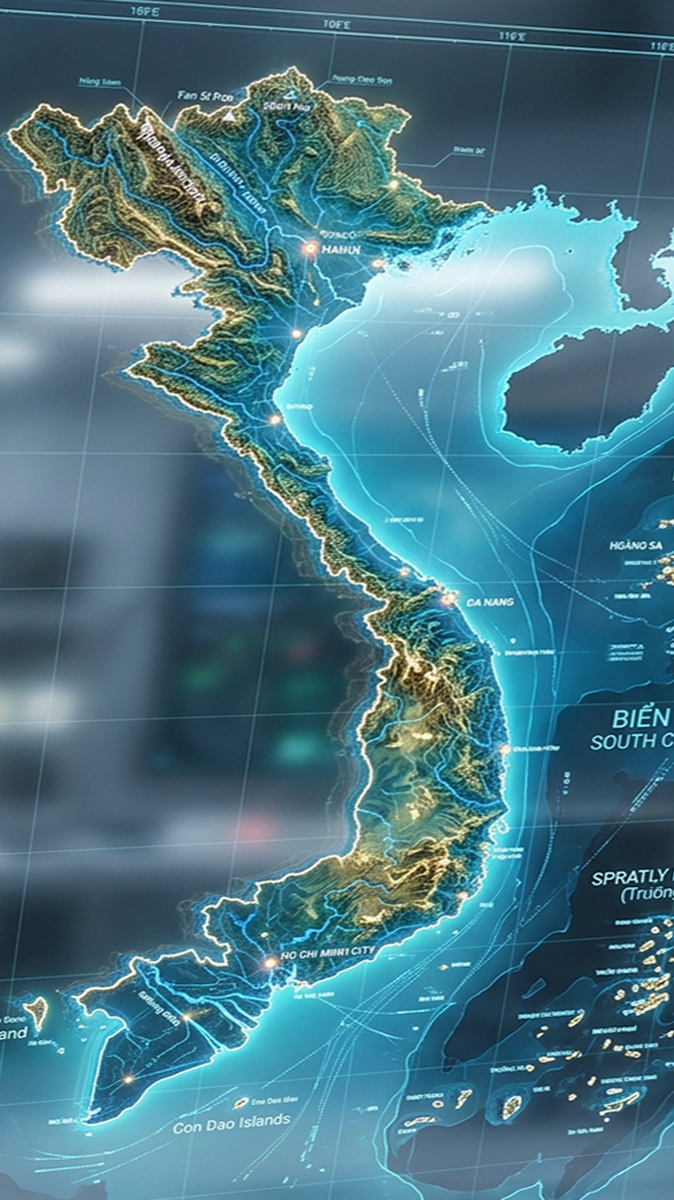
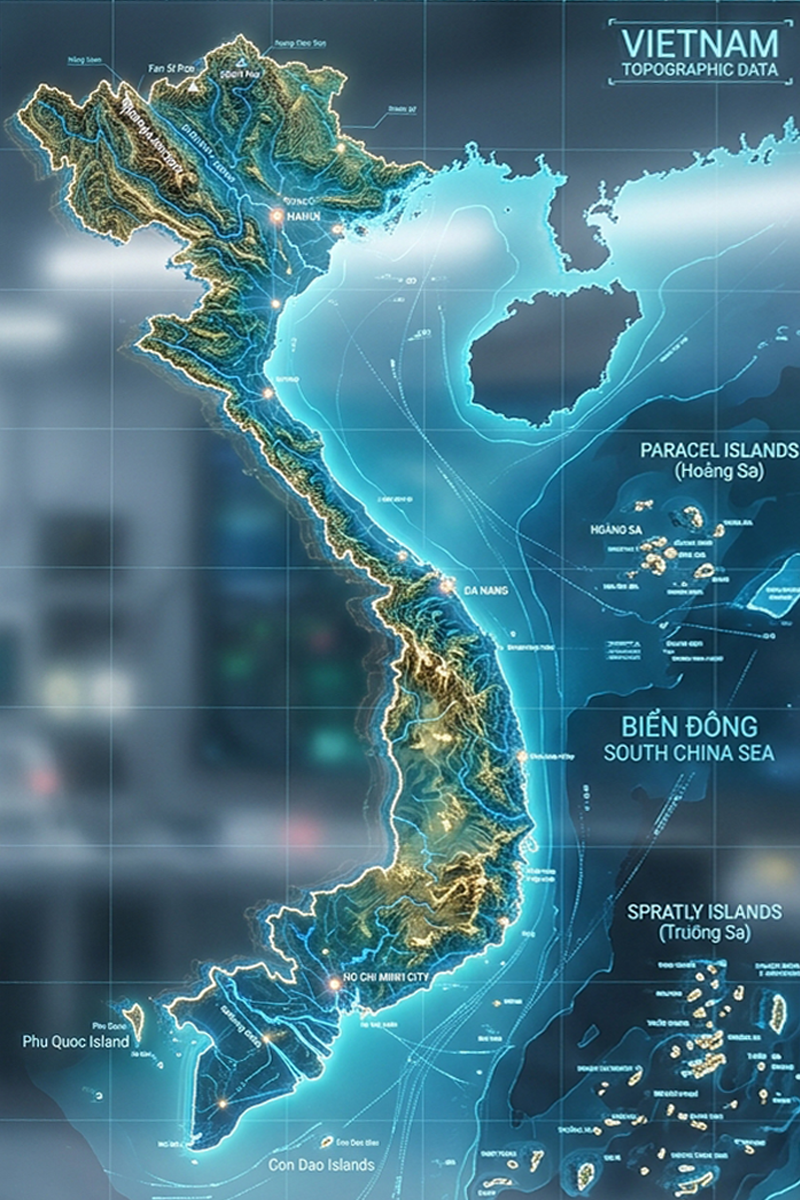
chore(assets): update 3D map and location coordinates
Add new 3D Vietnam map asset and adjust coordinate positioning for Sapa, Ha Giang, and Hanoi locations to align with the updated asset.

diff --git a/src/components/CategoryPage.tsx b/src/components/CategoryPage.tsx
@@ -30,8 +30,8 @@ const TRAVEL_LOCATIONS: TravelLocation[] = [
     tempMin: 14,
     tempMax: 22,
     currentStatus: "cloudy",
-    top: "10.4%",
-    left: "26.8%",
+    top: "8.24%",
+    left: "18.4%",
     forecast: [
       { day: "Thứ Hai", status: "cloudy", summary: "Sương mù dày đặc vào sáng sớm, trời lạnh sâu về đêm, thích hợp thưởng thức đồ nướng Bản Phố." },
       { day: "Thứ Ba", status: "sunny", summary: "Trời hửng nắng nhẹ trưa chiều, mây bồng bềnh phủ đỉnh Fansipan, cảnh sắc mộng mơ." },
@@ -49,8 +49,8 @@ const TRAVEL_LOCATIONS: TravelLocation[] = [
     tempMin: 16,
     tempMax: 24,
     currentStatus: "windy",
-    top: "7.6%",
-    left: "40%",
+    top: "4.4%",
+    left: "29.64%",
     forecast: [
       { day: "Thứ Hai", status: "windy", summary: "Gió núi lồng lộng thổi qua đèo Mã Pí Lèng, trời se lạnh và khô ráo." },
       { day: "Thứ Ba", status: "sunny", summary: "Trời quang mây tạnh, thung lũng Sủng Là rực rỡ sắc hoa tam giác mạch dưới nắng." },
@@ -68,8 +68,8 @@ const TRAVEL_LOCATIONS: TravelLocation[] = [
     tempMin: 26,
     tempMax: 34,
     currentStatus: "sunny",
-    top: "19.6%",
-    left: "44.16%",
+    top: "16.64%",
+    left: "32.96%",
     forecast: [
       { day: "Thứ Hai", status: "sunny", summary: "Trời nắng rực rỡ, gió thu thoang thoảng dịu mát quanh hồ Hoàn Kiếm." },
       { day: "Thứ Ba", status: "stormy", summary: "Ngày nắng nóng nhẹ, chiều tối có khả năng xuất hiện mưa giông giải nhiệt nhanh." },
@@ -87,8 +87,8 @@ const TRAVEL_LOCATIONS: TravelLocation[] = [
     tempMin: 25,
     tempMax: 32,
     currentStatus: "sunny",
-    top: "17.6%",
-    left: "68.6%",
+    top: "14.88%",
+    left: "49.0%",
     forecast: [
       { day: "Thứ Hai", status: "sunny", summary: "Trời trong xanh, sóng êm, vịnh Hạ Long lung linh dưới ánh nắng vàng rực rỡ." },
       { day: "Thứ Ba", status: "sunny", summary: "Nắng đẹp cả ngày, gió biển mát rượi thích hợp cho các hoạt động du thuyền và chèo kayak." },
@@ -100,14 +100,33 @@ const TRAVEL_LOCATIONS: TravelLocation[] = [
     ]
   },
   {
+    id: "thanhhoa",
+    name: "Thanh Hóa",
+    fullName: "Thanh Hóa",
+    tempMin: 25,
+    tempMax: 33,
+    currentStatus: "sunny",
+    top: "25.3%",
+    left: "33.9%",
+    forecast: [
+      { day: "Thứ Hai", status: "sunny", summary: "Trời nắng ráo, lộng gió thích hợp tắm biển Sầm Sơn, tận hưởng hải sản tươi ngon." },
+      { day: "Thứ Ba", status: "sunny", summary: "Nắng nhẹ, gió biển ôn hòa thích hợp ghé thăm Thành nhà Hồ cổ kính và uy nghiêm." },
+      { day: "Thứ Tư", status: "cloudy", summary: "Mây nhẹ rải rác che bớt nắng nóng, thời tiết lý tưởng để dạo quanh khu bảo tồn Pù Luông." },
+      { day: "Thứ Năm", status: "sunny", summary: "Thời tiết trong lành ấm áp, thích hợp dã ngoại khám phá suối cá thần Cẩm Lương kỳ thú." },
+      { day: "Thứ Sáu", status: "rainy", summary: "Cơn mưa rào bất chợt mát mẻ giữa ngày, tạnh nhanh và không khí trở nên sảng khoái cực kỳ." },
+      { day: "Thứ Bảy", status: "sunny", summary: "Ngày cuối tuần đầy nắng vàng tươi tắn dạo chơi khu du lịch Hải Tiến trong lành." },
+      { day: "Chủ Nhật", status: "sunny", summary: "Thời tiết hoàn hảo đầy nắng ấm, thuận lợi cho mọi hoạt động khám phá văn hóa xứ Thanh." }
+    ]
+  },
+  {
     id: "hatinh",
     name: "Hà Tĩnh",
     fullName: "Hà Tĩnh",
     tempMin: 24,
     tempMax: 32,
     currentStatus: "sunny",
-    top: "33.2%",
-    left: "39.6%",
+    top: "32.4%",
+    left: "32.6%",
     forecast: [
       { day: "Thứ Hai", status: "sunny", summary: "Nắng nhẹ, không khí trong lành tại bãi biển Thiên Cầm, sóng êm gió mát dễ chịu." },
       { day: "Thứ Ba", status: "sunny", summary: "Thời tiết khô ráo, ngày nắng ráo rất thuận lợi cho việc viếng Ngã ba Đồng Lộc." },
@@ -125,8 +144,8 @@ const TRAVEL_LOCATIONS: TravelLocation[] = [
     tempMin: 24,
     tempMax: 31,
     currentStatus: "rainy",
-    top: "46.4%",
-    left: "57.6%",
+    top: "44.8%",
+    left: "50.6%",
     forecast: [
       { day: "Thứ Hai", status: "rainy", summary: "Mưa bay lãng đãng trên dòng sông Hương, tạo nên vẻ trầm mặc cổ kính của cố đô." },
       { day: "Thứ Ba", status: "rainy", summary: "Mưa rào rải rác ngắt quãng, trời mát mẻ, chiều tối có sương mờ mờ ảo ảo." },
@@ -144,8 +163,8 @@ const TRAVEL_LOCATIONS: TravelLocation[] = [
     tempMin: 25,
     tempMax: 33,
     currentStatus: "sunny",
-    top: "49.2%",
-    left: "66.9%",
+    top: "48.51%",
+    left: "54.86%",
     forecast: [
       { day: "Thứ Hai", status: "sunny", summary: "Nắng đẹp rực rỡ trên bãi biển Mỹ Khê, sóng vỗ nhẹ nhàng thích hợp tắm biển." },
       { day: "Thứ Ba", status: "sunny", summary: "Trời trong xanh, tầm nhìn tuyệt vời từ đỉnh bán đảo Sơn Trà và chùa Linh Ứng." },
@@ -157,6 +176,25 @@ const TRAVEL_LOCATIONS: TravelLocation[] = [
     ]
   },
   {
+    id: "quinhon",
+    name: "Qui Nhơn",
+    fullName: "Qui Nhơn (Bình Định)",
+    tempMin: 25,
+    tempMax: 32,
+    currentStatus: "sunny",
+    top: "62.67%",
+    left: "63.01%",
+    forecast: [
+      { day: "Thứ Hai", status: "sunny", summary: "Nắng ấm chan hòa, bãi biển vầng trăng khuyết Ghềnh Ráng Quy Hòa sóng vỗ hiền hòa." },
+      { day: "Thứ Ba", status: "sunny", summary: "Trời quang mây tạnh, gió biển mát rượi vô cùng thuận lợi đi cano ra đảo Kỳ Co." },
+      { day: "Thứ Tư", status: "sunny", summary: "Nắng rực rỡ từ sớm, biển trong vắt như gương soi rõ rặng san hô hòn Khô rực rỡ." },
+      { day: "Thứ Năm", status: "cloudy", summary: "Mây mỏng che bớt nắng gắt trưa chiều, thời tiết mát mẻ thích hợp dạo Eo Gió lộng gió." },
+      { day: "Thứ Sáu", status: "sunny", summary: "Ngày nắng ráo mát mẻ, thích hợp viếng thăm Tháp Đôi kiến trúc Chăm cổ kính độc đáo." },
+      { day: "Thứ Bảy", status: "rainy", summary: "Có mưa rào nhẹ rải rác chớp nhoáng xế chiều, tối mát mẻ lộng gió thích hợp đi dạo." },
+      { day: "Chủ Nhật", status: "sunny", summary: "Thời tiết lý tưởng cho chuyến dã ngoại, nắng vàng lấp lánh cát trắng bãi tắm Hoàng Hậu." }
+    ]
+  },
+  {
     id: "nhatrang",
     name: "Nha Trang",
     fullName: "Nha Trang",
@@ -164,7 +202,7 @@ const TRAVEL_LOCATIONS: TravelLocation[] = [
     tempMax: 34,
     currentStatus: "sunny",
     top: "70.4%",
-    left: "71.7%",
+    left: "63.3%",
     forecast: [
       { day: "Thứ Hai", status: "sunny", summary: "Nắng vàng biển xanh cát trắng, vịnh Nha Trang hiền hòa đón du khách tham quan." },
       { day: "Thứ Ba", status: "sunny", summary: "Trời quang đãng tuyệt đối, sóng nhẹ êm đềm cực kỳ thuận lợi cho tour lặn ngắm san hô." },
@@ -176,14 +214,33 @@ const TRAVEL_LOCATIONS: TravelLocation[] = [
     ]
   },
   {
+    id: "dalat",
+    name: "Đà Lạt",
+    fullName: "Đà Lạt (Lâm Đồng)",
+    tempMin: 15,
+    tempMax: 24,
+    currentStatus: "cloudy",
+    top: "75.59%",
+    left: "57.46%",
+    forecast: [
+      { day: "Thứ Hai", status: "cloudy", summary: "Sương mù mờ ảo bao phủ hồ Xuân Hương lúc sáng sớm, trời se se lạnh lãng mạn." },
+      { day: "Thứ Ba", status: "sunny", summary: "Nắng vàng rực rỡ len lỏi qua rặng thông xanh, thời tiết tuyệt đẹp để đi dạo Thung Lũng Tình Yêu." },
+      { day: "Thứ Tư", status: "cloudy", summary: "Trời nhiều mây, không khí mát mẻ cả ngày, tối có sương mù nhẹ đặc trưng cao nguyên." },
+      { day: "Thứ Năm", status: "sunny", summary: "Nắng ấm chan hòa muôn hoa rực rỡ sắc màu, thích hợp check-in ga Đà Lạt." },
+      { day: "Thứ Sáu", status: "rainy", summary: "Khả năng có mưa rào nhẹ vào đầu giờ chiều, trời nhanh chóng tạnh ráo và mát mẻ." },
+      { day: "Thứ Bảy", status: "sunny", summary: "Thời tiết trong lành ấm áp, buổi tối se lạnh rất thích hợp dạo chợ đêm Đà Lạt." },
+      { day: "Chủ Nhật", status: "sunny", summary: "Nắng vàng ươm dịu ngọt trải đều cao nguyên, không khí trong lành sảng khoái tuyệt đối." }
+    ]
+  },
+  {
     id: "vungtau",
     name: "Vũng Tàu",
     fullName: "Vũng Tàu",
     tempMin: 27,
     tempMax: 33,
     currentStatus: "windy",
-    top: "82%",
-    left: "46%",
+    top: "82.8%",
+    left: "48.8%",
     forecast: [
       { day: "Thứ Hai", status: "windy", summary: "Gió biển thổi mạnh mẽ qua Bãi Sau, bầu trời trong lành lộng gió biển mát rượi." },
       { day: "Thứ Ba", status: "sunny", summary: "Ngày nắng ráo, gió lộng mát mẻ, thích hợp ghé thăm ngọn hải đăng Vũng Tàu." },
@@ -195,14 +252,33 @@ const TRAVEL_LOCATIONS: TravelLocation[] = [
     ]
   },
   {
+    id: "vinhlong",
+    name: "Vĩnh Long",
+    fullName: "Vĩnh Long",
+    tempMin: 25,
+    tempMax: 33,
+    currentStatus: "sunny",
+    top: "86.3%",
+    left: "34.9%",
+    forecast: [
+      { day: "Thứ Hai", status: "sunny", summary: "Nắng ấm chan hòa trên những vườn chôm chôm quả chín đỏ mọng bạt ngàn." },
+      { day: "Thứ Ba", status: "sunny", summary: "Trời trong xanh, sóng nước êm đềm dọc sông Cổ Chiên thuận lợi đi thuyền du khảo miền Tây." },
+      { day: "Thứ Tư", status: "cloudy", summary: "Mây nhẹ che mát bớt nắng trưa, gió sông mát rượi lồng lộng thổi qua cù lao An Bình." },
+      { day: "Thứ Năm", status: "sunny", summary: "Thời tiết ráo mát hoàn hảo để trải nghiệm cuộc sống miệt vườn trù phú." },
+      { day: "Thứ Sáu", status: "rainy", summary: "Mưa rào nhẹ xế chiều mát rượi đất đai miền sông nước, tạnh nhanh đón hoàng hôn." },
+      { day: "Thứ Bảy", status: "sunny", summary: "Nắng đẹp rực rỡ thích hợp tham quan lò gạch Mang Thít, khám phá vương quốc đỏ." },
+      { day: "Chủ Nhật", status: "sunny", summary: "Ngày cuối tuần tràn đầy nắng ấm thanh bình, không khí sông nước ngọt ngào trong lành." }
+    ]
+  },
+  {
     id: "camau",
     name: "Cà Mau",
     fullName: "Cà Mau",
     tempMin: 26,
     tempMax: 32,
     currentStatus: "rainy",
-    top: "88.98%",
-    left: "18.1%",
+    top: "91.54%",
+    left: "26.5%",
     forecast: [
       { day: "Thứ Hai", status: "rainy", summary: "Mưa rào mùa hè tắm mát rừng đước ngập mặn Năm Căn, không khí trong lành mát rượi." },
       { day: "Thứ Ba", status: "sunny", summary: "Trời hửng nắng ấm sau cơn mưa dài, đất mũi Cà Mau đón những làn gió mát lành." },
@@ -220,8 +296,8 @@ const TRAVEL_LOCATIONS: TravelLocation[] = [
     tempMin: 27,
     tempMax: 33,
     currentStatus: "sunny",
-    top: "83.2%",
-    left: "7.3%",
+    top: "83.07%",
+    left: "15.7%",
     forecast: [
       { day: "Thứ Hai", status: "sunny", summary: "Hoàng hôn buông xuống Bãi Trường nhuộm đỏ cả một vùng trời biển Phú Quốc lãng mạn." },
       { day: "Thứ Ba", status: "sunny", summary: "Nắng vàng rực rỡ, sóng êm nước trong như pha lê tại quần đảo An Thới." },
@@ -239,8 +315,8 @@ const TRAVEL_LOCATIONS: TravelLocation[] = [
     tempMin: 26,
     tempMax: 32,
     currentStatus: "windy",
-    top: "91.8%",
-    left: "35.2%",
+    top: "95.0%",
+    left: "40.8%",
     forecast: [
       { day: "Thứ Hai", status: "windy", summary: "Gió đại dương thổi lồng lộng qua bãi Đầm Trầu hoang sơ, bầu trời trong vắt thanh bình." },
       { day: "Thứ Ba", status: "sunny", summary: "Thời tiết nắng ráo hiền hòa, sóng vỗ nhẹ nhàng thích hợp viếng nghĩa trang Hàng Dương." },
@@ -494,9 +570,10 @@ export default function CategoryPage({
                   </h3>
                 </div>
 
-                <div className="grid grid-cols-1 md:grid-cols-12 gap-5 flex-grow">
-                  {/* Left Panel: Vietnam Tech AI Map (md:col-span-5) */}
-                  <div className="md:col-span-5 relative bg-gradient-to-b from-black/80 to-black/95 border border-white/10 rounded-xl aspect-[9/16] w-full overflow-hidden shadow-2xl">
+                <div className="grid grid-cols-1 md:grid-cols-[11fr_13fr] gap-5 flex-grow">
+                  {/* Left Panel: Vietnam Tech AI Map */}
+                  <div className="flex justify-center">
+                    <div className="relative bg-gradient-to-b from-black/80 to-black/95 border border-white/10 rounded-xl aspect-[8/12] w-full h-auto md:h-full md:w-auto overflow-hidden shadow-2xl">
                     {/* Background 3D Vietnam Map Image */}
                     <div 
                       className="absolute inset-0 bg-contain bg-center bg-no-repeat opacity-80 pointer-events-none"
@@ -542,7 +619,7 @@ export default function CategoryPage({
 
                       {/* Wide Glow Aura Path */}
                       <path 
-                        d="M 40 7.6 L 26.8 10.4 L 44.16 19.6 L 68.6 17.6 L 39.6 33.2 L 57.6 46.4 L 66.9 49.2 L 71.7 70.4 L 46 82 L 18.1 88.98 L 7.3 83.2" 
+                        d="M 29.64 4.4 L 18.4 8.24 L 32.96 16.64 L 49.0 14.88 L 33.9 25.3 L 32.6 32.4 L 50.6 44.8 L 54.86 48.51 L 63.01 62.67 L 63.3 70.4 L 57.46 75.59 L 48.8 82.8 L 34.9 86.3 L 26.5 91.54 L 15.7 83.07" 
                         fill="none" 
                         stroke="url(#cyber-grad-map)" 
                         strokeWidth="2.5" 
@@ -552,7 +629,7 @@ export default function CategoryPage({
 
                       {/* Main Dynamic Neon Travel Line (North to South) */}
                       <path 
-                        d="M 40 7.6 L 26.8 10.4 L 44.16 19.6 L 68.6 17.6 L 39.6 33.2 L 57.6 46.4 L 66.9 49.2 L 71.7 70.4 L 46 82 L 18.1 88.98 L 7.3 83.2" 
+                        d="M 29.64 4.4 L 18.4 8.24 L 32.96 16.64 L 49.0 14.88 L 33.9 25.3 L 32.6 32.4 L 50.6 44.8 L 54.86 48.51 L 63.01 62.67 L 63.3 70.4 L 57.46 75.59 L 48.8 82.8 L 34.9 86.3 L 26.5 91.54 L 15.7 83.07" 
                         fill="none" 
                         stroke="url(#cyber-grad-map)" 
                         strokeWidth="1.5" 
@@ -562,17 +639,17 @@ export default function CategoryPage({
 
                       {/* Fine Bright Core Line */}
                       <path 
-                        d="M 40 7.6 L 26.8 10.4 L 44.16 19.6 L 68.6 17.6 L 39.6 33.2 L 57.6 46.4 L 66.9 49.2 L 71.7 70.4 L 46 82 L 18.1 88.98 L 7.3 83.2" 
+                        d="M 29.64 4.4 L 18.4 8.24 L 32.96 16.64 L 49.0 14.88 L 33.9 25.3 L 32.6 32.4 L 50.6 44.8 L 54.86 48.51 L 63.01 62.67 L 63.3 70.4 L 57.46 75.59 L 48.8 82.8 L 34.9 86.3 L 26.5 91.54 L 15.7 83.07" 
                         fill="none" 
                         stroke="#ffffff" 
                         strokeWidth="0.5" 
                         opacity="0.9"
                       />
 
-                      <circle cx="35.2" cy="91.8" r="1.5" fill="#f97316" opacity="0.8" className="animate-ping" />
-                      <circle cx="35.2" cy="91.8" r="0.8" fill="#f97316" />
-                      <circle cx="7.3" cy="83.2" r="1.5" fill="#f97316" opacity="0.8" className="animate-ping" />
-                      <circle cx="7.3" cy="83.2" r="0.8" fill="#f97316" />
+                      <circle cx="40.8" cy="95.0" r="1.5" fill="#f97316" opacity="0.8" className="animate-ping" />
+                      <circle cx="40.8" cy="95.0" r="0.8" fill="#f97316" />
+                      <circle cx="15.7" cy="83.07" r="1.5" fill="#f97316" opacity="0.8" className="animate-ping" />
+                      <circle cx="15.7" cy="83.07" r="0.8" fill="#f97316" />
                     </svg>
 
                     {/* Location Nodes */}
@@ -621,9 +698,10 @@ export default function CategoryPage({
                       AI SATELLITE MAP v2.5
                     </div>
                   </div>
+                </div>
 
-                  {/* Right Panel: Choice Dropdown & 7 Days Forecast (md:col-span-7) */}
-                  <div className="md:col-span-7 flex flex-col gap-4 min-h-0">
+                  {/* Right Panel: Choice Dropdown & 7 Days Forecast */}
+                  <div className="flex flex-col gap-4 min-h-0">
                     {/* Choose location menu */}
                     <div className="relative">
                       <label className="text-[10px] font-mono uppercase tracking-wider text-gray-400 block mb-1">